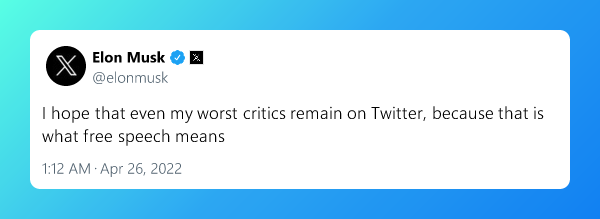
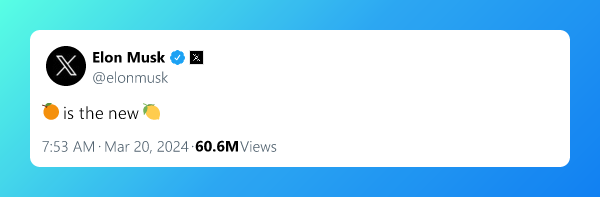
update README

diff --git a/README.md b/README.md
@@ -4,7 +4,7 @@ Create beautiful Tweet images fast.
 Fast, good design, Browser is not a dependency.
 
 ```shell
-npx twitter-snap@latest https://twitter.com/elonmusk/status/15186239970549186570
+npx twitter-snap@latest https://twitter.com/elonmusk/status/1770222178279252062
 ```
 
 <p float="left">
